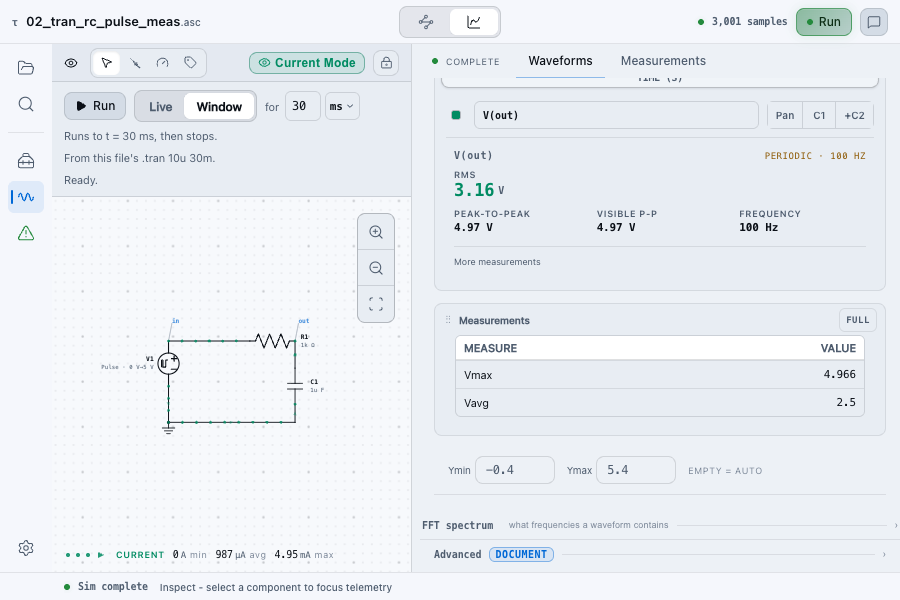
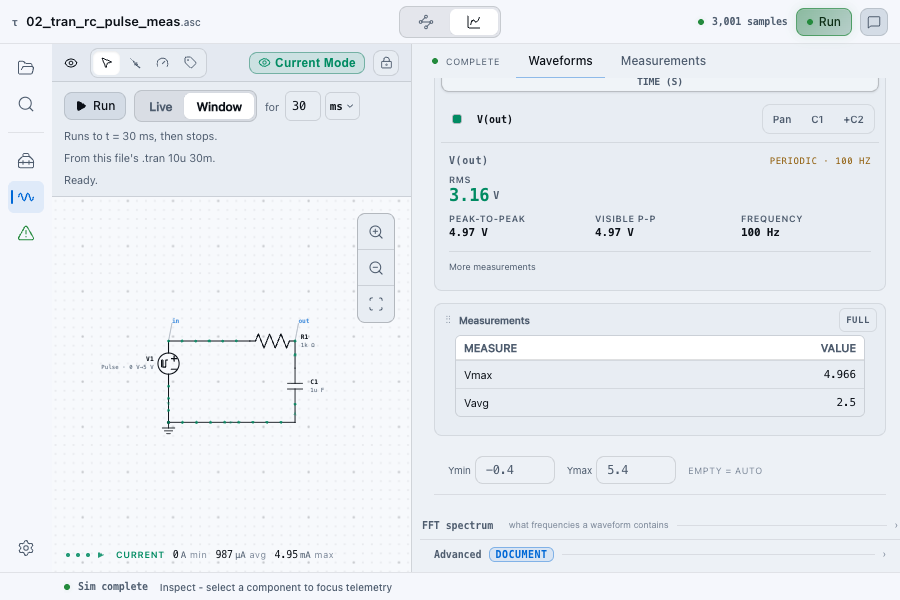
auto: compact waveform channel chrome (§6)

diff --git a/apps/desktop/src/App.css b/apps/desktop/src/App.css
@@ -2077,51 +2077,50 @@ body {
   color: var(--muted);
 }
 
-/* A trace is an interactive instrument channel, not a passive legend row.
-   Selecting it makes C1/C2 glide over that exact series. The color chip
-   beside the name opens the validated color-safe palette in a popover
-   (see .trace-color-popover) rather than showing it always. All colors
-   remain token-backed. */
+/* A trace is an interactive scope channel, not a selected form row. Its data
+   surface already lives inside DashboardCard, so selection is carried by the
+   channel label + Pan/C1/C2 state instead of another tinted box. The color
+   chip opens the validated palette in a popover (see .trace-color-popover).
+   All colors remain token-backed. */
 .trace-interaction {
   min-width: 0;
-  padding: var(--sp-1);
-  border: 1px solid transparent;
-  border-radius: var(--r-md);
+  padding: var(--sp-1) 0 0;
+  border: 0;
+  border-radius: 0;
 }
 
 .trace-interaction.selected {
-  border-color: var(--accent-line);
-  background: var(--accent-soft);
+  background: transparent;
 }
 
 .trace-interaction__toolbar {
   min-width: 0;
   display: flex;
   align-items: center;
-  gap: var(--sp-2);
-  padding: 0 0 var(--sp-1);
-}
-
-.trace-interaction__select,
-.trace-interaction__cursors button {
-  min-height: 28px;
-  appearance: none;
-  border: 1px solid var(--border);
-  border-radius: var(--r-sm);
-  color: var(--muted);
-  background: var(--panel-3);
-  font: 600 var(--fs-caption) var(--font-ui);
-  cursor: pointer;
+  gap: var(--sp-1);
+  padding: 0 var(--sp-1) var(--sp-1);
 }
 
 .trace-interaction__select {
   min-width: 0;
+  min-height: var(--control-hit-compact);
   flex: 1 1 auto;
   display: flex;
   align-items: center;
   gap: var(--sp-2);
-  padding: 0 var(--sp-2);
+  padding: 0 var(--sp-1);
+  appearance: none;
+  border: 0;
+  border-radius: var(--r-xs);
+  color: var(--muted);
+  background: transparent;
+  font: 600 var(--fs-caption) var(--font-ui);
   text-align: left;
+  cursor: pointer;
+}
+
+.trace-interaction__select:hover {
+  background: var(--accent-soft);
 }
 
 /* The chip beside the trace name IS the recolor affordance - clicking it
@@ -2132,8 +2131,8 @@ body {
   display: inline-flex;
   align-items: center;
   justify-content: center;
-  width: 20px;
-  height: 20px;
+  width: var(--control-hit-compact);
+  height: var(--control-hit-compact);
   padding: 0;
   border: 1px solid transparent;
   border-radius: 50%;
@@ -2167,28 +2166,44 @@ body {
   white-space: nowrap;
 }
 
-.trace-interaction__select[aria-pressed="true"],
-.trace-interaction__cursors button[aria-pressed="true"] {
-  color: var(--accent);
-  border-color: var(--accent-line);
-  background: var(--accent-soft);
+.trace-interaction__select[aria-pressed="true"] {
+  color: var(--text);
+  box-shadow: inset 0 -1px 0 var(--accent-line);
 }
 
 .trace-interaction__cursors {
   flex: none;
   display: inline-flex;
   overflow: hidden;
-  border-radius: var(--r-sm);
+  gap: 2px;
+  padding: 2px;
+  border: 1px solid var(--border-subtle);
+  border-radius: var(--r-md);
+  background: var(--panel-3);
 }
 
 .trace-interaction__cursors button {
-  min-width: 34px;
+  min-width: 32px;
+  min-height: var(--control-hit-compact);
   padding: 0 var(--sp-2);
-  border-radius: 0;
+  appearance: none;
+  border: 0;
+  border-radius: var(--r-xs);
+  color: var(--muted);
+  background: transparent;
+  font: 600 var(--fs-caption) var(--font-ui);
+  cursor: pointer;
 }
 
-.trace-interaction__cursors button + button {
-  margin-left: -1px;
+.trace-interaction__cursors button:hover {
+  color: var(--text);
+  background: var(--accent-soft);
+}
+
+.trace-interaction__cursors button[aria-pressed="true"] {
+  color: var(--accent);
+  background: var(--accent-soft);
+  box-shadow: inset 0 0 0 1px var(--accent-line);
 }
 
 .window-avg-rms {

diff --git a/apps/desktop/src/components/SimulationPanel.test.tsx b/apps/desktop/src/components/SimulationPanel.test.tsx
@@ -1846,6 +1846,22 @@ describe("SimulationPanel - trace color choice and cursor seek", () => {
     );
   }
 
+  it("keeps exactly one scope channel active while preserving every channel control", () => {
+    renderTwoTracePanel();
+
+    const out = screen.getByRole("button", { name: "Select V(out) for cursor measurement" });
+    const input = screen.getByRole("button", { name: "Select V(in) for cursor measurement" });
+    expect(out.getAttribute("aria-pressed")).toBe("true");
+    expect(input.getAttribute("aria-pressed")).toBe("false");
+    expect(screen.getByRole("button", { name: "Change V(out) colour" })).toBeTruthy();
+    expect(screen.getByRole("button", { name: "Pan V(out) plot" })).toBeTruthy();
+
+    fireEvent.click(input);
+    expect(out.getAttribute("aria-pressed")).toBe("false");
+    expect(input.getAttribute("aria-pressed")).toBe("true");
+    expect(screen.getByRole("button", { name: "Pan V(in) plot" }).getAttribute("aria-pressed")).toBe("true");
+  });
+
   it("does not put the swatch row in the document for a merely-selected trace", () => {
     renderTwoTracePanel();
     selectOutTrace();

diff --git a/PROGRESS.md b/PROGRESS.md
@@ -1,6 +1,6 @@
 ## HEARTBEAT
 
-**Status: IN PROGRESS - 2026-08-30 (run `simulation-channels-20260830-3`)**
+**Status: DONE - 2026-08-30 (run `simulation-channels-20260830-3`)**
 
 Unit: **Turn each waveform trace's form-like selection row into a compact
 scope-channel header that stays legible when an EE stacks several signals.**
@@ -17,6 +17,29 @@ reduce vertical/control density without hiding engineering function; prove the
 stacked V(in)/V(out) result in both themes at 1440×900, 1280×720, and 900×600;
 and pass focused/full frontend, typecheck, build, design-system, and minimum-
 window gates.
+
+**Landed:** the selected channel no longer paints another rounded/tinted card
+inside its dashboard card, and the signal label no longer impersonates a text
+field. A borderless mono label with an active hairline now leads into a compact
+Pan/C1/C2 segmented mode control. Colour and mode targets meet the 24 px floor;
+selection, palette, Ctrl/⌘ window statistics, right-click math, and cursor
+behavior are unchanged. The focused design runner now asserts that both stacked
+channels exist, active selection is transparent, the label has zero border, and
+every compact target remains usable. Its Chrome close is bounded so a completed
+visual run cannot strand the verifier and Vite child.
+
+**Proof / gates:** focused SimulationPanel **88/88**; full frontend **5,204
+passed / 9 skipped**; typecheck; production web build; design-system drift
+**50/50**; minimum-window **16/16** across both themes at 900×600; and 18 clean
+Pan/C1/readout simulator frames across light/dark at 1440×900, 1280×720, and
+900×600 under `screenshots/simulation-channels-20260830-3/`. Six representative
+frames were visually inspected with no overlap, clipping, or lost active state.
+No Definition-of-Done checkbox changes: named-device fidelity and broad
+differential parity remain open.
+
+**Next step:** remove the remaining repeated single-channel identity by merging
+colour/activation with the dashboard-card heading while keeping an inline
+channel switcher only for genuine multi-trace panes.
 
 ---
 
@@ -19591,3 +19614,16 @@ evidence is kept in full here.
   production build, design-system drift 50/50, minimum-window 16/16, and a
   clean local browser console. Named-device and broad differential DoD items
   remain open; the next simulator unit is compact multi-signal channel chrome.
+
+- 2026-08-30 - Replaced the waveform legend's input-like trace row and full-card
+  selection wash with compact scope-channel chrome: a borderless mono channel
+  label, one active hairline, a restrained Pan/C1/C2 segment, and 24 px colour/
+  mode targets. The two-channel visual gate now measures those invariants before
+  every focused capture, and the screenshot runner has bounded Chrome cleanup
+  after a completed run. Files: `App.css`, `SimulationPanel.test.tsx`,
+  `design-shot.mjs`, focused screenshots, and parity/log records. Evidence:
+  88/88 focused, 5,204 frontend tests passed / nine skipped, typecheck,
+  production build, design-system drift 50/50, minimum-window 16/16, and 18
+  both-theme simulator frames. Named-device and broad differential DoD items
+  remain open; next is removing duplicate single-channel identity without
+  weakening true multi-trace selection.

diff --git a/FEATURE_PARITY.md b/FEATURE_PARITY.md
@@ -1332,7 +1332,14 @@ zener, opamp, comparator, **VCVS (E)**, **VCCS (G)**, **CCCS (F)**, **CCVS (H)**
   unrelated presentation rerenders do not reread samples. The focused design
   pipeline captures waveform + scrolled-readout frames in both themes at
   1440×900, 1280×720, and 900×600; the minimum-window audit now proves that
-  below-plot state directly (16/16).
+  below-plot state directly (16/16). **Compact scope-channel header
+  (2026-08-30):** the selected trace no longer looks like a wide text input or
+  washes the full measurement surface in selection colour. Signal identity is
+  a borderless mono channel label with a single active hairline; Pan/C1/C2 is a
+  compact segmented mode control, and the colour target now meets the 24 px
+  interaction floor. The focused screenshot gate asserts two stacked channels,
+  transparent selection chrome, zero label border, and target geometry before
+  capturing all three viewports in both themes.
 - 🟡 Bode (AC mag/phase) — **magnitude + phase now both plotted** (`AcPlot`): a
   second log-frequency sub-plot draws each trace's `phaseDeg` on a 45°-snapped
   degrees axis below the dB magnitude, matching LTspice's dual Bode. Shared
